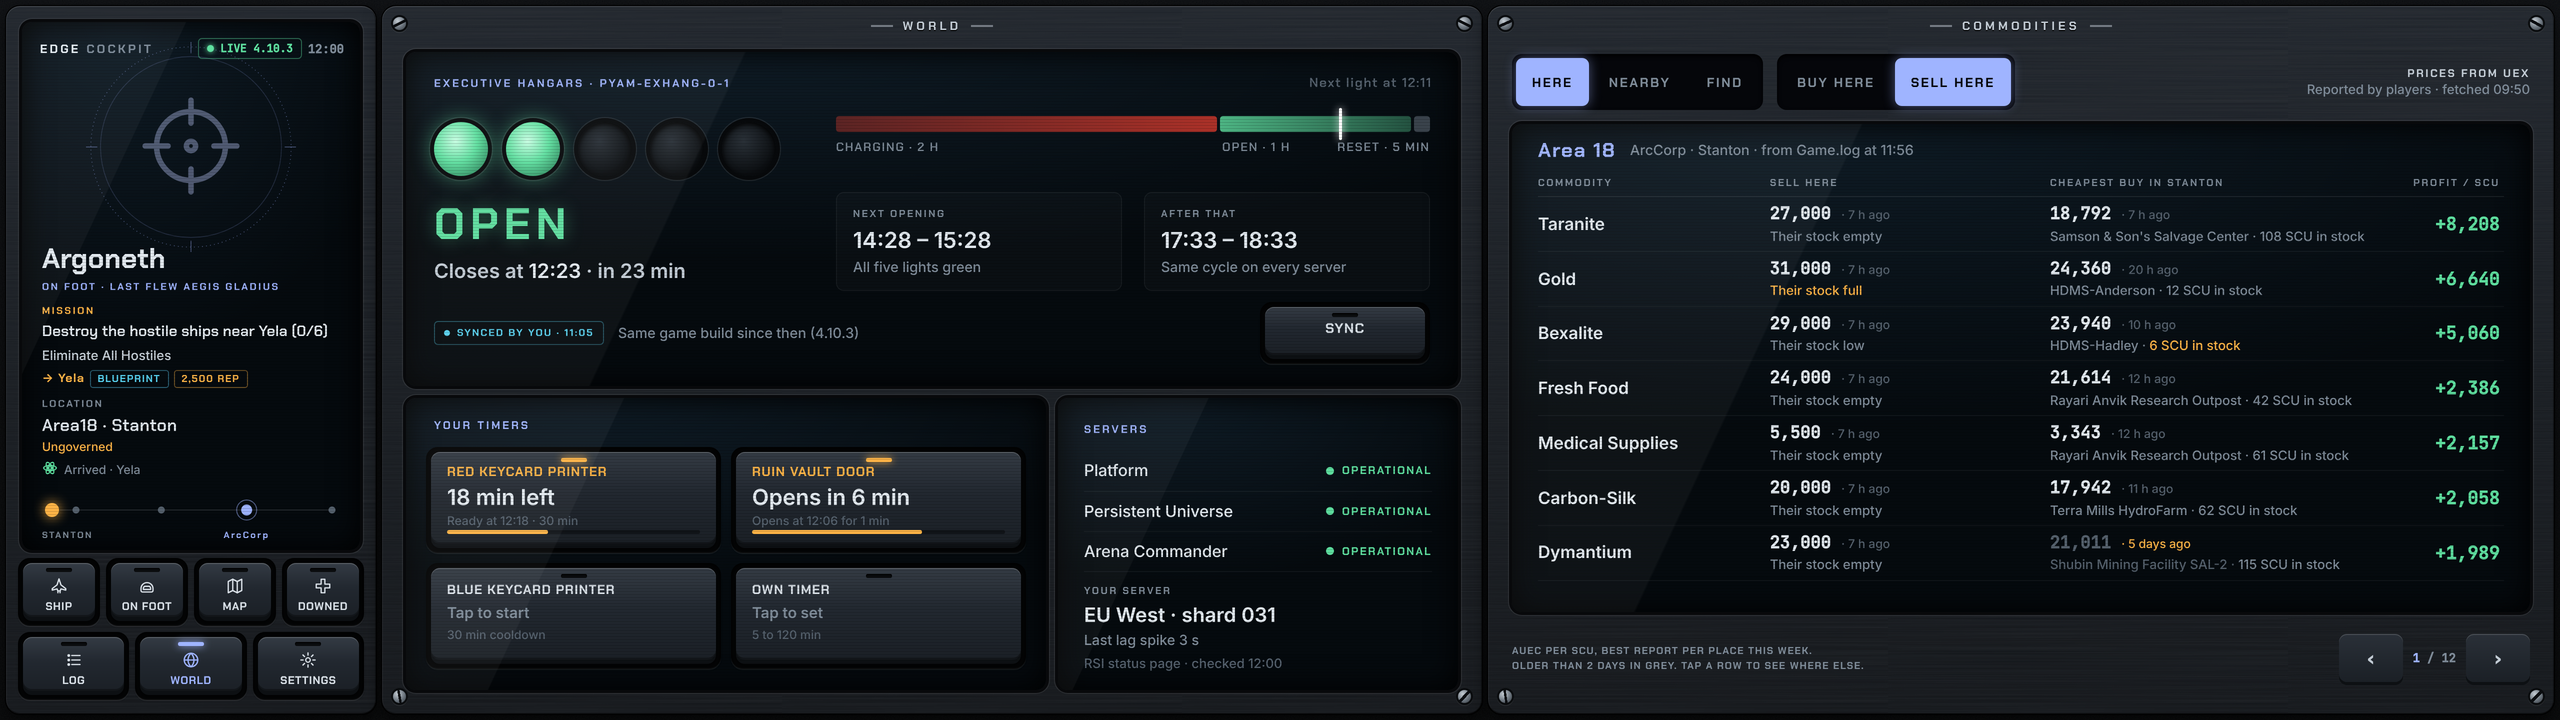
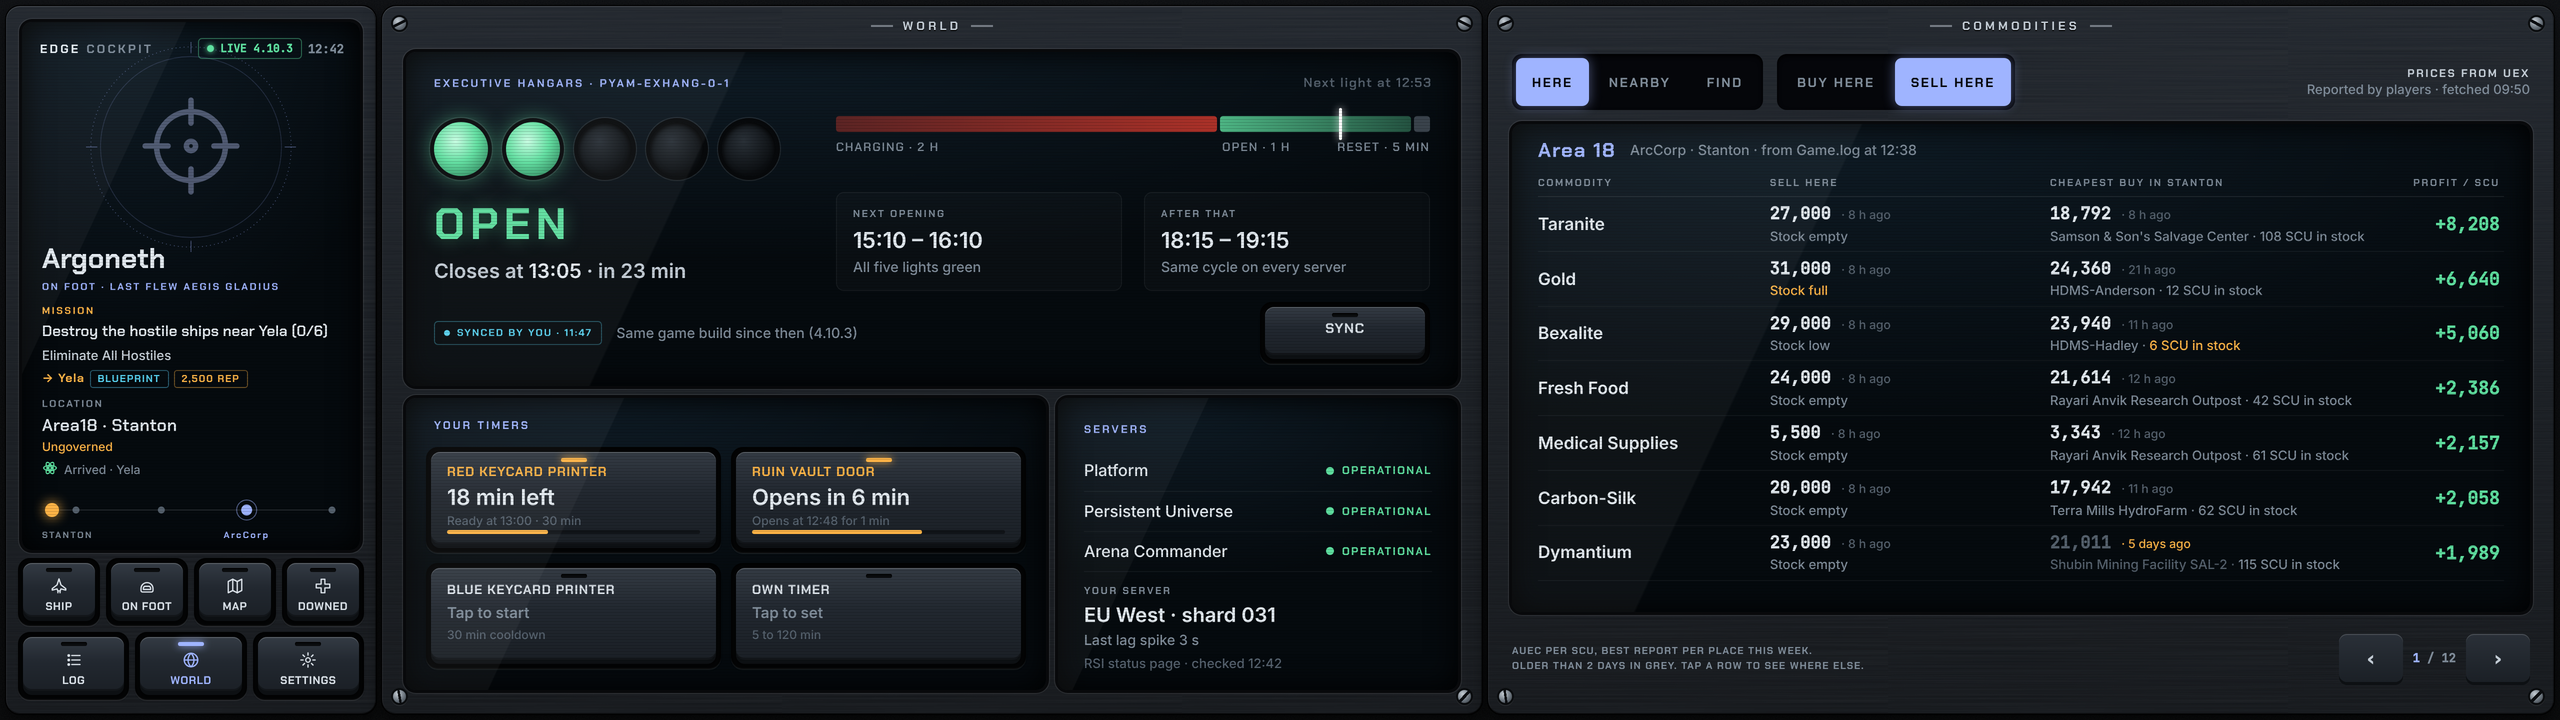
World: stock reads "Stock full", not "Their stock full"
Claude-Session: https://claude.ai/code/session_019a7Xd58q8bJkxT4xNzLqKa

diff --git a/app/test/core.test.js b/app/test/core.test.js
@@ -466,8 +466,8 @@ test('place unknown: best trades in the system; stock as reported', () => {
   assert.deepEqual(rows.map(r => r.profit), rows.map(r => r.profit).sort((a, b) => b - a));
   assert.deepEqual(W.stockText({ scu: 1200 }), { text: '1,200 SCU in stock', low: false });
   assert.deepEqual(W.stockText({ scu: 6 }), { text: '6 SCU in stock', low: true });
-  assert.deepEqual(W.stockText({ status: 1 }), { text: 'Their stock empty', low: false });
-  assert.deepEqual(W.stockText({ status: 7 }), { text: 'Their stock full', low: true });
+  assert.deepEqual(W.stockText({ status: 1 }), { text: 'Stock empty', low: false });
+  assert.deepEqual(W.stockText({ status: 7 }), { text: 'Stock full', low: true });
   assert.equal(W.stockText({ scu: 0, status: 0 }), null);
 });
 

diff --git a/app/ui/lib/world.js b/app/ui/lib/world.js
@@ -179,7 +179,7 @@ const LEVEL = ['', 'empty', 'very low', 'low', 'medium', 'high', 'very high', 'f
 /** What the terminal had when the price was reported: SCU for sale when you buy; its own stock when you sell. */
 export function stockText(x) {
   if (x.scu > 0) return { text: `${x.scu.toLocaleString('en-US')} SCU in stock`, low: x.scu < 10 };
-  if (x.status) return { text: `Their stock ${LEVEL[x.status] || ''}`, low: x.status >= 6 };
+  if (x.status) return { text: `Stock ${LEVEL[x.status] || ''}`, low: x.status >= 6 };
   return null;
 }
 

diff --git a/CHANGELOG.md b/CHANGELOG.md
@@ -1,5 +1,9 @@
 # Changelog
 
+## Unreleased
+
+- World: the sell side's stock reads "Stock full" instead of "Their stock full".
+
 ## 0.7.0
 
 - World page (new page key; the page keys are now four over three):
